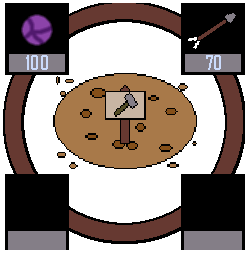
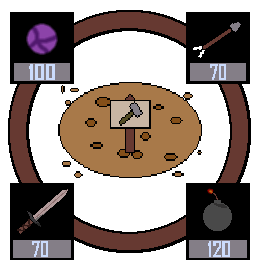
pushulja

diff --git a/level/Level.cpp b/level/Level.cpp
@@ -101,7 +101,7 @@ void Level::handleEvent(sf::Vector2i &mousePos, Game &game, bool &exitLevel)
     if(!isMenuStandOpen){
        for (auto stand : towerStands)
             if (stand->getGlobalBounds().contains((sf::Vector2f)mousePos)){
-                menuStand.setPosition(stand->getPosition().x - 173, stand->getPosition().y - 193);
+                menuStand.setPosition(stand->getPosition().x - 178, stand->getPosition().y - 202);
                 isMenuStandOpen = true;
                 break;
             }
@@ -122,7 +122,7 @@ void handleMenuClickEvent(sf::Vector2i &mousePos, sf::Sprite &menuStand){
         break;
     case 3:
         std::cout << "baraka" << std::endl;
-        break;
+        break;  
     case 4:
         std::cout << "bombar" << std::endl;
         break;
@@ -141,8 +141,8 @@ int whichTowerToCreate(sf::Vector2i &mousePos, sf::Sprite &menuStand){
     }
     else if(mousePos.y < menuStand.getPosition().y + 130 && mousePos.y > menuStand.getPosition().y + 50){
         if(mousePos.x < menuStand.getPosition().x + 130 && mousePos.x > menuStand.getPosition().x + 50)
-            return 3;
-        return 4;
+            return 4;
+        return 3;
     }
     return -1;
 }

diff --git a/commonFunctions/CommonFunctions.h b/commonFunctions/CommonFunctions.h
@@ -1,6 +1,31 @@
 #ifndef COMMON_FUNCTIONS_H
 #define COMMON_FUNCTIONS_H
 
+#define LVL1 1
+#define LVL2 2
+#define LVL3 3
+#define CONTINUE 35
+#define EXIT 36
+#define PAUSE 37
+#define FORPAUSE 38
+#define REDHEALTHBAR 39
+#define GREENHEALTHBAR 40
+#define MAIN_MAP 9999
+#define FLAG_FOR_LVL 9998
+#define WAVE_SIGN 5000
+#define TOWER_STAND 10000
+#define TOWER_MENU 10001
+#define GIANT 50000
+#define GIANT_WALKING1 50001
+#define GIANT_WALKING2 50002
+#define GIANT_WALKING3 50003
+#define HERO_WALKING1 60000
+#define HERO_WALKING2 60001
+#define HERO_WALKING3 60002
+#define WIZ_LVL1 70000
+#define ARC_LVL1 80000
+#define BOLT 90000
+
 #include <SFML/Graphics.hpp>
 
 void spriteSetting(sf::Sprite &sprite, sf::Texture &spriteTexture, float scale);

diff --git a/mainMenu/MainMenu.cpp b/mainMenu/MainMenu.cpp
@@ -13,9 +13,7 @@ MainMenu::MainMenu(/*Here paths for .txt files may be accepted if needed*/)
     exitButtonTexture = getTexture(allTexturesMatrix, 36, 0);
     if (exitButtonTexture.getSize().x > 0 && exitButtonTexture.getSize().y > 0)
     {
-        exitButton.setTexture(exitButtonTexture);
-        newExitButton = &exitButton;
-        exitButton.setScale(.3, .3);
+        spriteSetting(exitButton, exitButtonTexture, 0.3);
         exitButton.setPosition(1700, 20);
     }
     else

diff --git a/mainMenu/MainMenu.h b/mainMenu/MainMenu.h
@@ -6,6 +6,7 @@
 #include <sstream>
 #include <fstream>
 #include "../Game.h"
+#include "../commonFunctions/CommonFunctions.h"
 
 struct Row
 {
